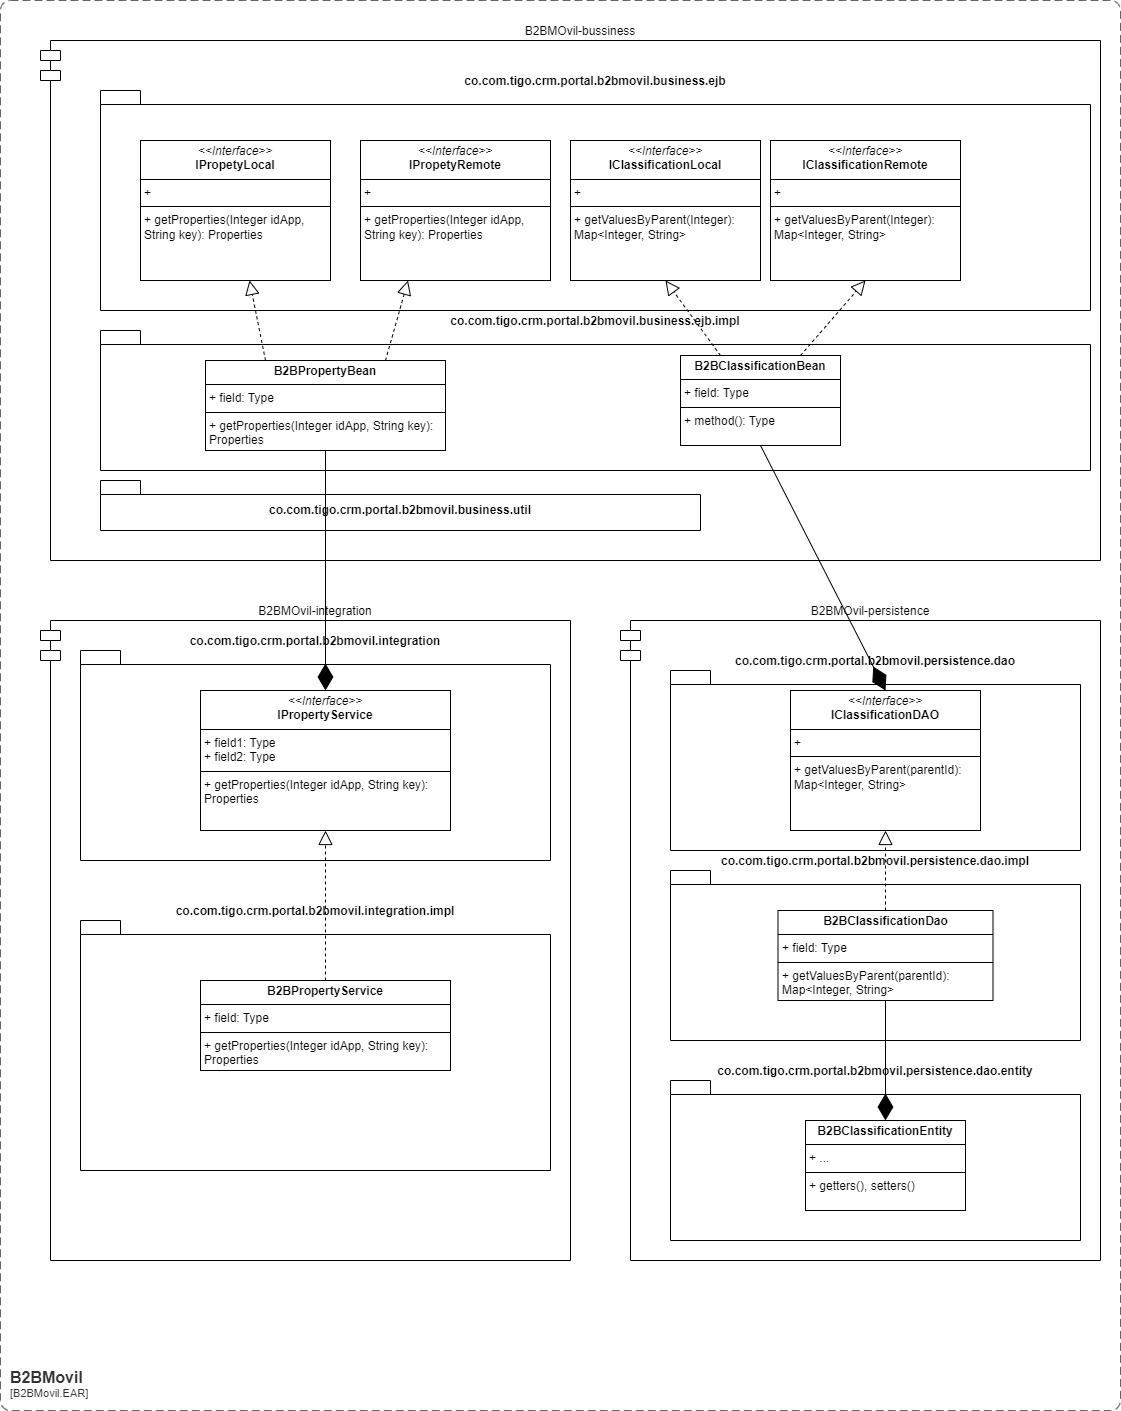
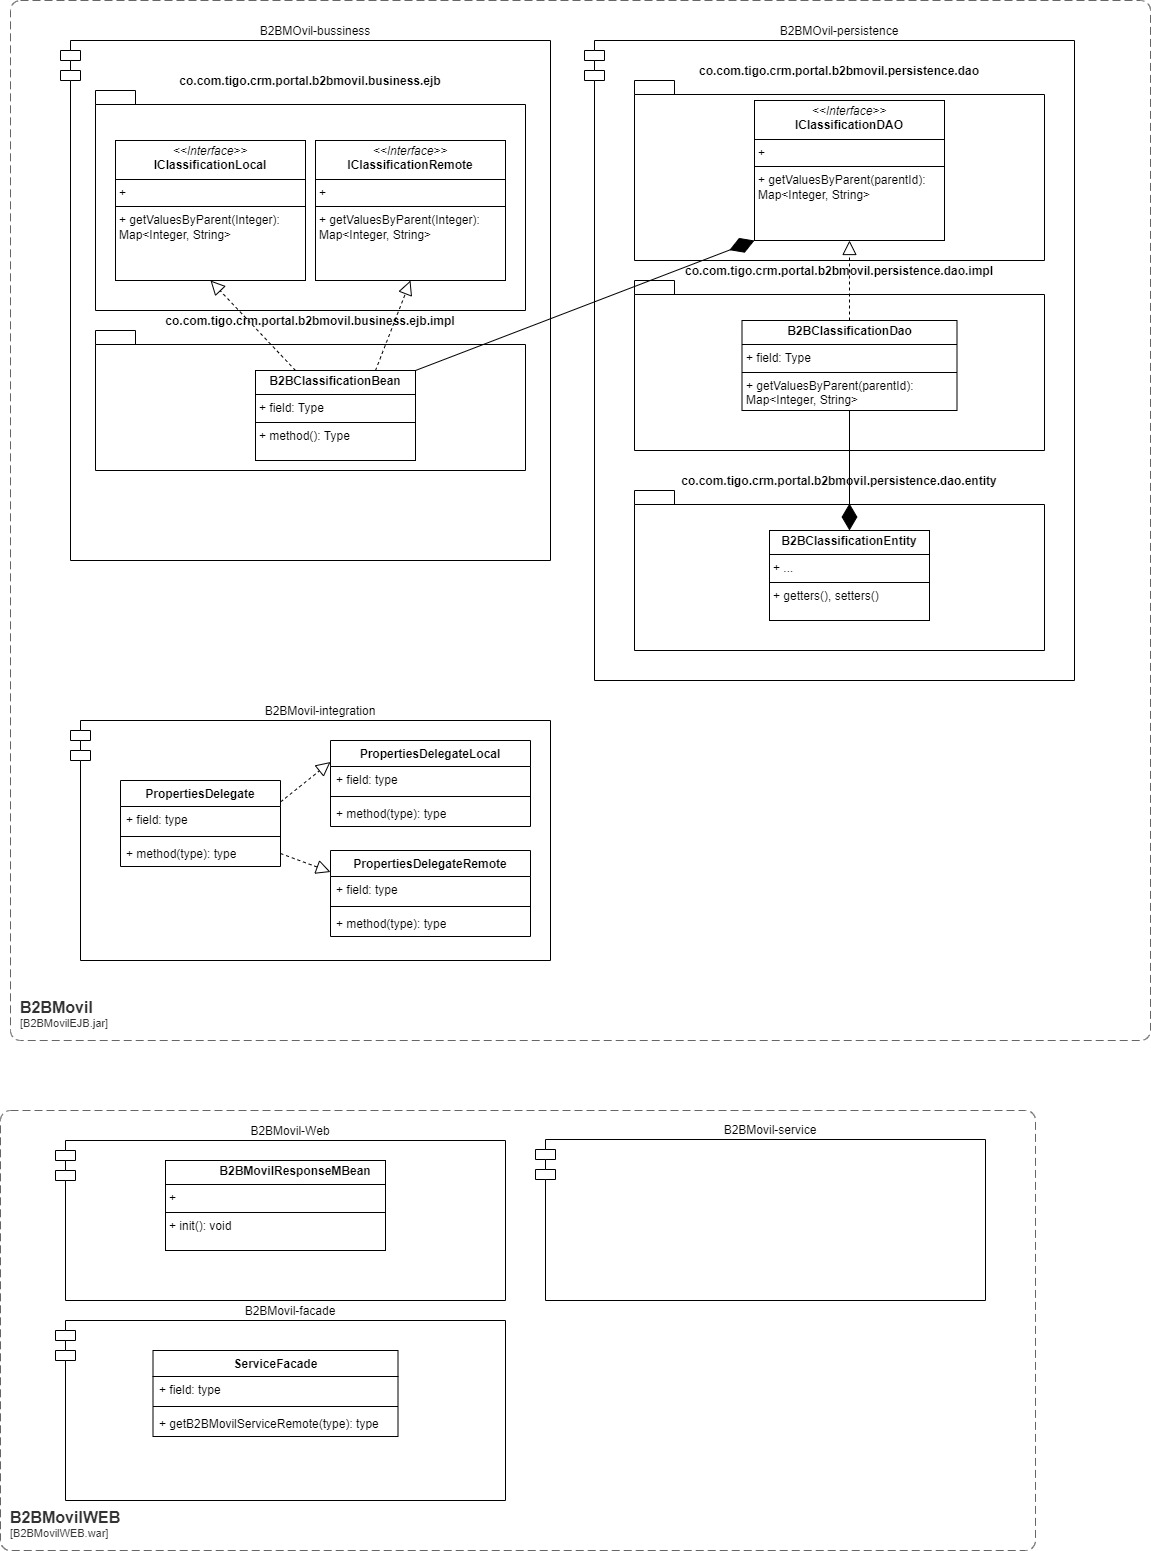
avance diseño parametrizacion

diff --git a/design/parametrizacion/ParametrizacionDesign.md b/design/parametrizacion/ParametrizacionDesign.md
@@ -76,6 +76,12 @@ Se implementará el modelo de CLASIFICADORES para parametrizar los valores de un
 
 ## Diagrama de componentes
 
+El diagrama de componentes se encuentra soportado en la arquitectura expuesta en: 
+
+https://tigoco.atlassian.net/wiki/spaces/DI/pages/697991563/Manual+creaci+n+componente
+
+Al final, se encontraran los siguientes componentes: 
+
 ![Componentes.JPG](Componentes.JPG)
 
 ## Diagrama de paquetes
